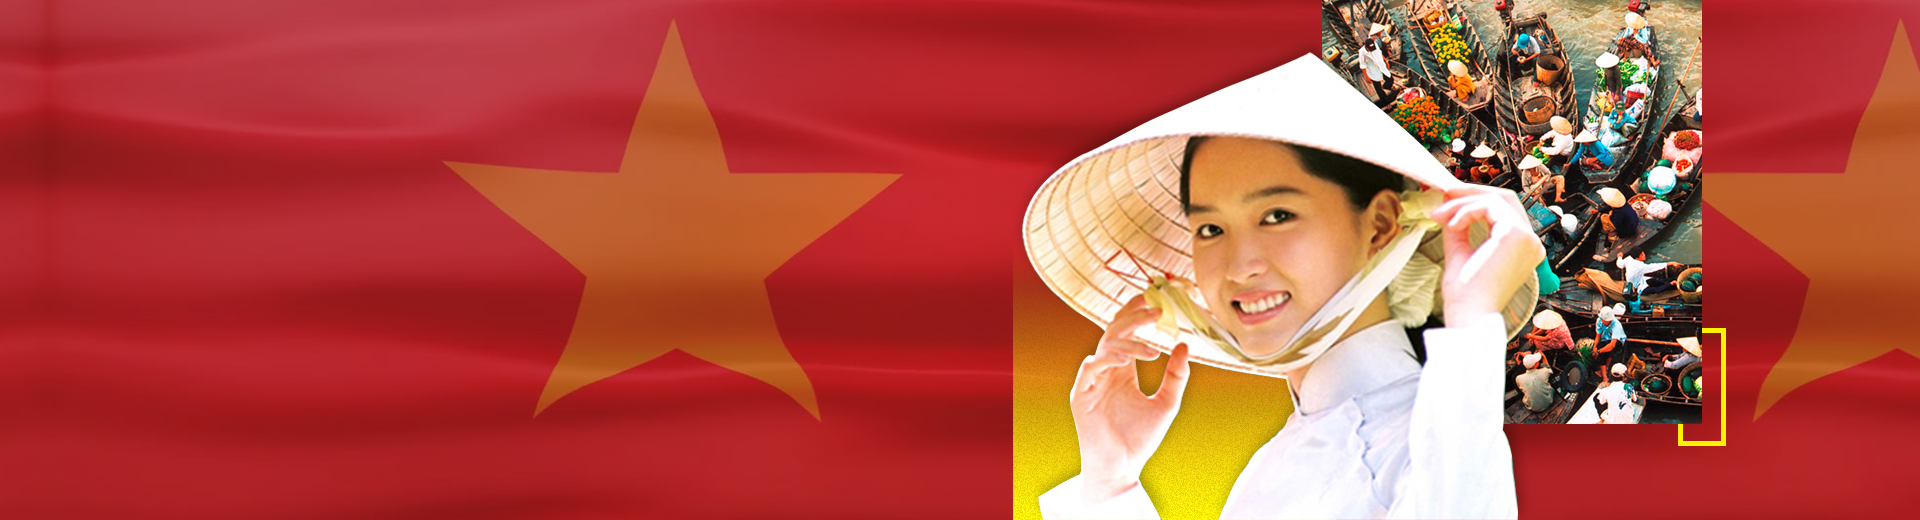
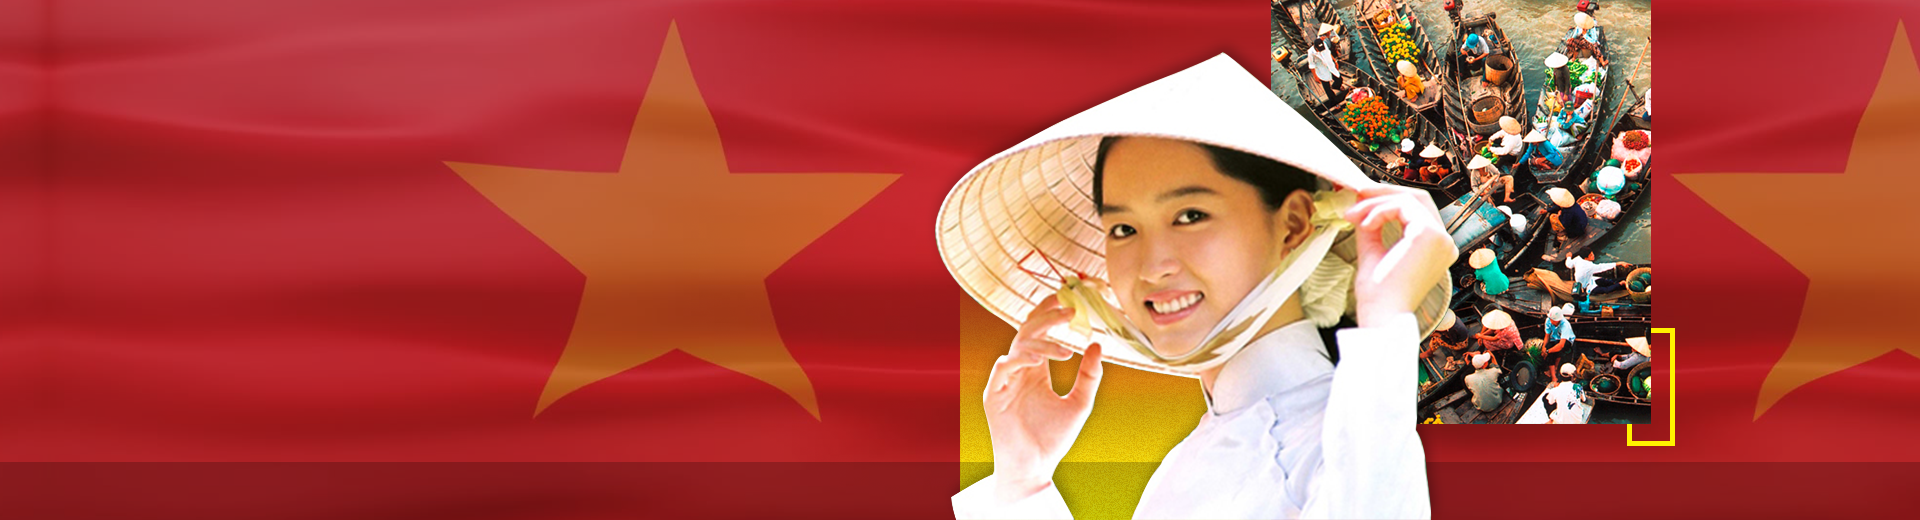
update

diff --git a/template/css/style.css b/template/css/style.css
@@ -1185,8 +1185,9 @@ ul.list-embassy li {
 	z-index: 4;
 }
 .slide-content .slide-text h1 {
-	font-size: 42px;
+	font-size: 47px;
 	color: #ebc515;
+	text-shadow: 0 0 4px #ff0000;
 }
 .slide-content .slide-button {
 	margin-top: 30px;
@@ -1230,7 +1231,7 @@ ul.list-embassy li {
 	padding-right: 5px;
 }
 .slide-contact {
-	background: #8519196b;
+	/*background: #8519196b;*/
 	color: #fff;
 	position: absolute;
 	width: 100%;
@@ -1260,7 +1261,7 @@ ul.list-embassy li {
 
 .slide-image .item{
 	width: 100%;
-	height: 520px;
+	height: 500px;
 	background-size: cover;
 	background-position: center;
 	background-repeat: no-repeat;
@@ -1272,26 +1273,27 @@ ul.list-embassy li {
 .slide-content .slide-text .checklist {
 	list-style-type: square;
 	color: #ff0000;
-	font-size: 20px;
+	font-size: 24px;
 	border-left: 2px solid;
 }
 .slide-content .slide-text .checklist li p {
-	color: #ffffff;
+	color: #000000;
 	padding: 2px;
 	margin: 0;
+	text-shadow: 0px 1px 3px #cccccc;
 }
 .slide-content .control-owl-slider ul {
 	list-style: none;
 	margin: 0;
 	padding: 0;
-	margin-top: 100px;
+	margin-top: 30px;
 	position: absolute;
 }
 .slide-content .control-owl-slider ul li{
 	height: 10px;
 	width: 10px;
 	border-radius: 50%;
-	border: 1px solid #ccc;
+	border: 1px solid #fcfbf8;
 	display: inline-block;
 	margin-right: 10px;
 }
@@ -3661,7 +3663,10 @@ ul.style-step li.active {
 		padding-top: 30px;
 	}
 	.slide-content .slide-text h1 {
-		font-size: 36px;
+		font-size: 30px;
+	}
+	.slide-content .slide-text .checklist {
+		font-size: 18px;
 	}
 	.slide-image .item {
 		width: 100%;

diff --git a/application/views/home.php b/application/views/home.php
@@ -30,7 +30,7 @@
 								</ul>
 							</div>
 							<div class="slide-button">
-								<a class="btn btn-danger" href="<?=site_url("apply-visa")?>">APPLY NOW</a>
+								<a class="btn btn-danger f13" href="<?=site_url("apply-visa")?>">APPLY NOW</a>
 							</div>
 							<div class="control-owl-slider">
 								<ul class="d-none d-sm-none d-md-block">
@@ -301,7 +301,7 @@
 							<li>Prompt Support via chat, email, or phone</li>
 							<li>Fast And Secure</li>
 						</ul>
-						<p> It is legitimated and supported by the Vietnamese Immigration Department. Please take a view about our previous client’s experiences on... </p>
+						<p>... </p>
 						<div class="showmore-button">
 							<a class="btn btn-danger" href="<?=site_url('about-us')?>">SHOW MORE</a>
 						</div>
